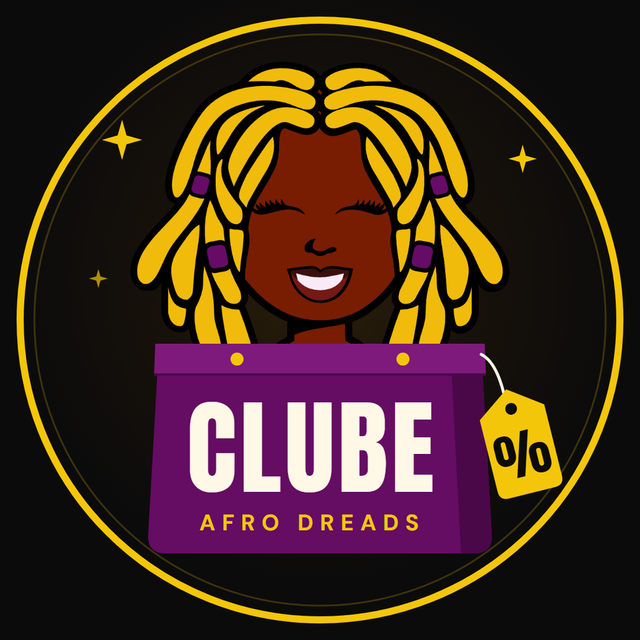
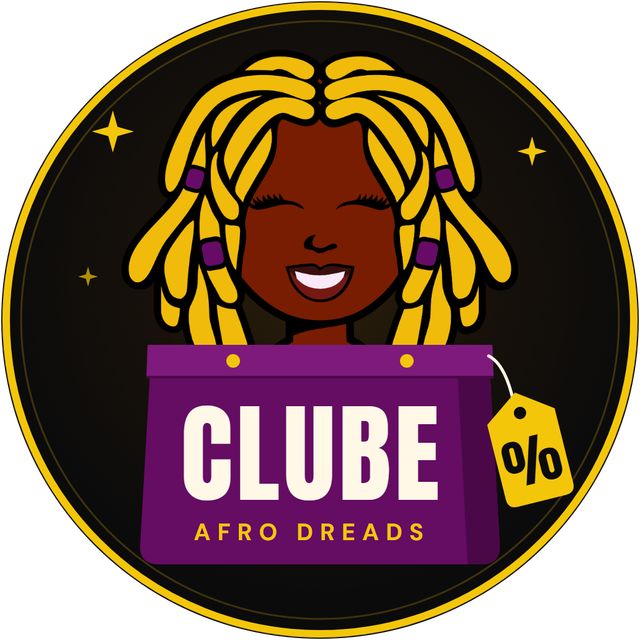
Clube: botão pulsando, selo em círculo, ícones e mascote em loop
- Botão "Entrar no grupo grátis" entra com efeito de pop e fica pulsando
  (quem pede menos movimento ao sistema vê só o brilho).
- Texto abaixo do botão centralizado no celular.
- Selo do Clube recortado em círculo, sem o fundo quadrado.
- Ícones nos três benefícios (selo, estrela, sino cortado).
- "O que aparece no grupo" trocado pela animação da mascote em loop, com o
  botão logo abaixo; fundo da página igual ao do vídeo.

diff --git a/src/app/clube/page.tsx b/src/app/clube/page.tsx
@@ -1,4 +1,5 @@
 import type { Metadata } from "next";
+import type { ReactNode } from "react";
 import Image from "next/image";
 import { AdEyebrow } from "@/components/ui/Eyebrow";
 import { AdTitle } from "@/components/ui/SectionTitle";
@@ -24,26 +25,55 @@ export const metadata: Metadata = {
   twitter: { card: "summary", title: TITLE, description: DESCRIPTION, images: ["/clube/avatar-640.png"] },
 };
 
+// Ícones simples em traço (24x24), na cor do texto em volta.
+function Icone({ children }: { children: ReactNode }) {
+  return (
+    <span className="mb-4 inline-flex h-12 w-12 items-center justify-center rounded-ad-pill bg-amarelo-soft text-amarelo">
+      <svg viewBox="0 0 24 24" className="h-6 w-6" fill="none" stroke="currentColor" strokeWidth={2} strokeLinecap="round" strokeLinejoin="round" aria-hidden="true">
+        {children}
+      </svg>
+    </span>
+  );
+}
+
 const BENEFICIOS = [
   {
     titulo: "Curadoria de quem entende",
     texto: "Os produtos são escolhidos pela equipe do estúdio, que cuida de dreads, locs e cabelo crespo todos os dias.",
+    // Selo de aprovação com check.
+    icone: (
+      <>
+        <circle cx="12" cy="9" r="6" />
+        <path d="m9.5 9 1.7 1.7L14.5 7.4" />
+        <path d="M8.5 14.2 7 21l5-2.5 5 2.5-1.5-6.8" />
+      </>
+    ),
   },
   {
     titulo: "Só produto bem avaliado",
     texto: "Nada de achadinho duvidoso: a gente confere a nota, as vendas e o preço antes de mandar.",
+    // Estrela de avaliação.
+    icone: <path d="m12 3 2.7 5.6 6.1.9-4.4 4.3 1 6.1L12 17l-5.4 2.9 1-6.1-4.4-4.3 6.1-.9z" />,
   },
   {
     titulo: "Sem spam",
     texto: "Até 7 ofertas por dia, em horário comercial. Dá para silenciar o grupo e olhar quando quiser.",
+    // Sino cortado (sem notificação demais).
+    icone: (
+      <>
+        <path d="M6 16V11a6 6 0 0 1 9.2-5.1" />
+        <path d="M18 11v5l1.5 2H6.5" />
+        <path d="M10 21a2 2 0 0 0 4 0" />
+        <path d="m3 3 18 18" />
+      </>
+    ),
   },
 ];
 
-const EXEMPLOS = ["Touca e fronha de cetim", "Shampoo antirresíduo", "Acessórios e búzios para locs", "Pentes e ferramentas", "Hidratação para crespos"];
-
 export default function ClubePage() {
   return (
-    <main className="bg-surface pb-20 pt-28 sm:pt-32">
+    // Fundo igual ao do vídeo da mascote, para a animação se misturar à página.
+    <main className="pb-20 pt-28 sm:pt-32" style={{ backgroundColor: "#0C0C0C" }}>
       <section className="mx-auto grid max-w-5xl items-center gap-10 px-6 sm:grid-cols-[1.2fr_0.8fr]">
         <div className="flex flex-col gap-6">
           <AdEyebrow>Grupo gratuito no WhatsApp</AdEyebrow>
@@ -56,7 +86,7 @@ export default function ClubePage() {
           </p>
           <div className="flex flex-col gap-3">
             <EntrarNoClube />
-            <p className="m-0 text-sm text-ink-muted">É grátis, e você sai quando quiser.</p>
+            <p className="m-0 text-center text-sm text-ink-muted sm:text-left">É grátis, e você sai quando quiser.</p>
           </div>
         </div>
         <div className="mx-auto w-56 sm:w-full sm:max-w-xs">
@@ -75,6 +105,7 @@ export default function ClubePage() {
         <ul className="m-0 grid list-none gap-4 p-0 sm:grid-cols-3">
           {BENEFICIOS.map((b) => (
             <li key={b.titulo} className="rounded-ad-lg border border-line bg-surface-raised p-6">
+              <Icone>{b.icone}</Icone>
               <h2 className="m-0 font-sans text-lg font-semibold text-amarelo-text">{b.titulo}</h2>
               <p className="mb-0 mt-2 leading-relaxed text-ink-muted">{b.texto}</p>
             </li>
@@ -82,20 +113,23 @@ export default function ClubePage() {
         </ul>
       </section>
 
-      <section className="mx-auto mt-14 max-w-5xl px-6">
-        <h2 className="m-0 font-sans text-xl font-semibold text-ink">O que aparece no grupo</h2>
-        <ul className="mt-4 flex list-none flex-wrap gap-2 p-0">
-          {EXEMPLOS.map((e) => (
-            <li key={e} className="rounded-ad-pill border border-line-strong px-4 py-2 text-sm text-ink">
-              {e}
-            </li>
-          ))}
-        </ul>
-      </section>
-
-      <section className="mx-auto mt-14 flex max-w-5xl flex-col gap-6 px-6">
+      <section className="mx-auto mt-14 flex max-w-5xl flex-col items-center gap-8 px-6">
+        {/* A mascote da Afro Dreads (mesmo vídeo da home), aqui em loop. */}
+        <video
+          autoPlay
+          muted
+          loop
+          playsInline
+          preload="metadata"
+          poster="/hero-poster.jpg"
+          aria-label="Animação da mascote da Afro Dreads apontando para você"
+          className="h-[42vh] max-h-[420px] w-auto object-contain"
+        >
+          <source src="/hero.webm" type="video/webm" />
+          <source src="/hero.mp4" type="video/mp4" />
+        </video>
         <EntrarNoClube />
-        <div className="flex flex-col gap-2 text-sm leading-relaxed text-ink-muted">
+        <div className="flex flex-col gap-2 text-center text-sm leading-relaxed text-ink-muted sm:text-left">
           <p className="m-0">Nunca pedimos dados pessoais, senha ou pagamento pelo grupo. As compras são feitas direto na loja oficial.</p>
           <p className="m-0">
             Alguns links são de afiliado: se você comprar por eles, a Afro Dreads pode receber uma comissão, sem custo

diff --git a/src/app/globals.css b/src/app/globals.css
@@ -37,3 +37,34 @@ body {
   outline: 2px solid #f1bb09;
   outline-offset: 1px;
 }
+
+/* Clube Afro Dreads: botão de entrar no grupo "salta" ao aparecer e depois pulsa
+   (escala + anel amarelo que se espalha) para chamar o clique. */
+@keyframes clube-pop {
+  0% { transform: scale(0.6); opacity: 0; }
+  60% { transform: scale(1.08); opacity: 1; }
+  100% { transform: scale(1); opacity: 1; }
+}
+
+@keyframes clube-pulse {
+  0%, 100% { transform: scale(1); box-shadow: 0 0 0 0 rgba(241, 187, 9, 0.55); }
+  50% { transform: scale(1.05); box-shadow: 0 0 0 14px rgba(241, 187, 9, 0); }
+}
+
+.clube-cta {
+  animation:
+    clube-pop 0.6s cubic-bezier(0.2, 0.9, 0.3, 1.3) both,
+    clube-pulse 1.8s ease-in-out 0.8s infinite;
+}
+
+@keyframes clube-glow {
+  0%, 100% { box-shadow: 0 0 0 0 rgba(241, 187, 9, 0.55); }
+  50% { box-shadow: 0 0 0 14px rgba(241, 187, 9, 0); }
+}
+
+/* Quem pediu menos movimento ao sistema vê só o brilho, sem o botão crescer. */
+@media (prefers-reduced-motion: reduce) {
+  .clube-cta {
+    animation: clube-glow 1.8s ease-in-out infinite;
+  }
+}

diff --git a/src/components/clube/EntrarNoClube.tsx b/src/components/clube/EntrarNoClube.tsx
@@ -25,7 +25,7 @@ export function EntrarNoClube({ className }: { className?: string }) {
     <a
       href="/clube/entrar"
       onClick={aoClicar}
-      className={`inline-flex h-16 w-full items-center justify-center gap-3 rounded-ad-pill bg-amarelo px-8 font-sans text-base font-semibold uppercase tracking-wide text-amarelo-on transition-transform hover:-translate-y-0.5 hover:shadow-[0_0_0_4px_theme(colors.amarelo.soft)] sm:w-auto ${className ?? ""}`}
+      className={`clube-cta inline-flex h-16 w-full items-center justify-center gap-3 rounded-ad-pill bg-amarelo px-8 font-sans text-base font-semibold uppercase tracking-wide text-amarelo-on sm:w-auto ${className ?? ""}`}
     >
       <WhatsAppIcon className="h-6 w-6" />
       Entrar no grupo grátis
